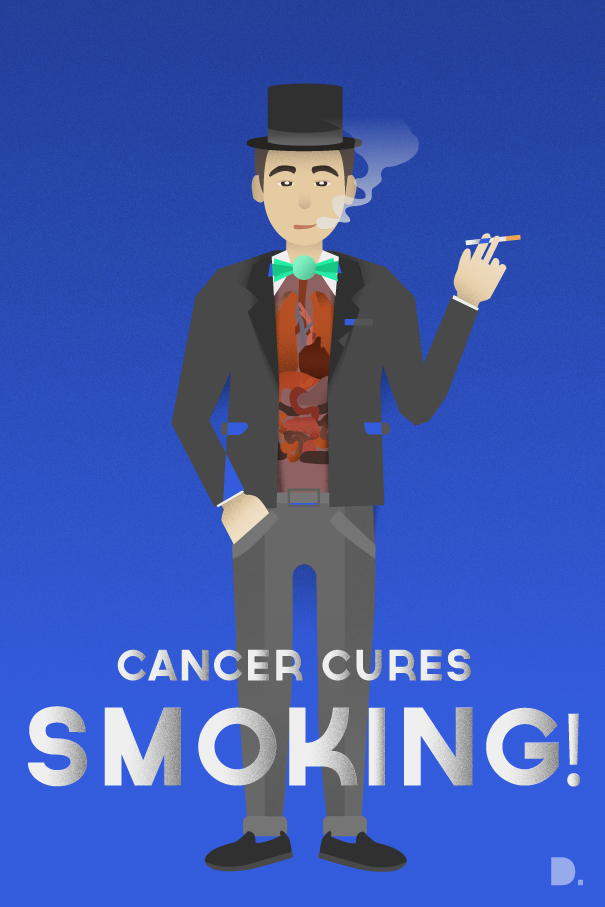
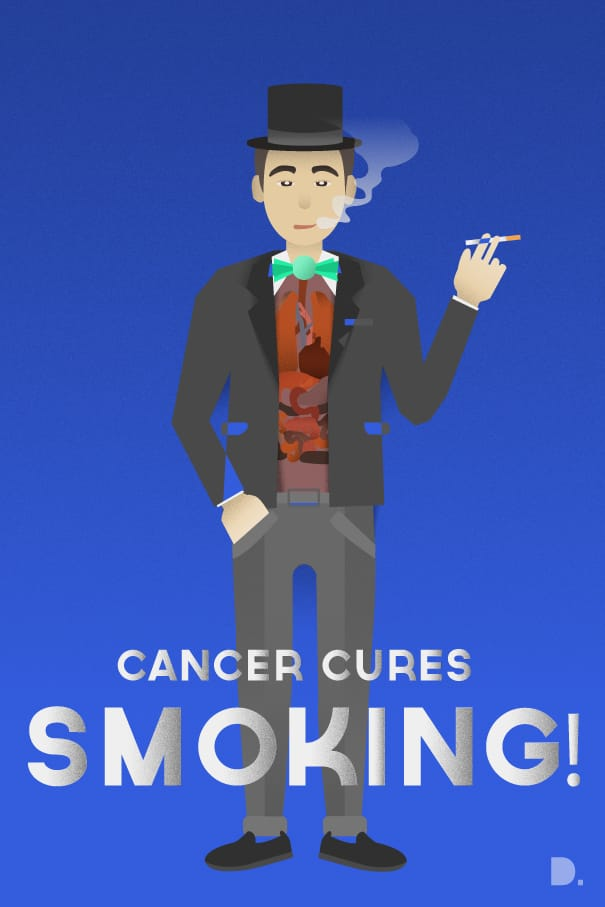
optimized images for the web

diff --git a/css/style.min.css b/css/style.min.css
@@ -1,1 +1,1 @@
-.menu,.menu-image,.nav-main{overflow:hidden}.feature-title,.menu-link a{text-decoration:none!important}.feature-box,.feature-box-cover,.feature-contents,.feature-desc,.feature-details,.menu-description,.photo-box{box-sizing:border-box}.background{position:absolute;height:600px;width:100%;background:#4a5861;background:-webkit-linear-gradient(left top,#71899A,#4a5861);background:-o-linear-gradient(bottom right,#8a9fae,#4a5861);background:-main-biomoz-linear-gradient(bottom right,#8a9fae,#4a5861);background:linear-gradient(bottom right,#8a9fae,#4a5861)}@media (min-height:600px){.background{height:700px}}.menu{height:478px;width:100%;position:fixed;pointer-events:none;z-index:10}.menu-image,.nav-button,.nav-faux-menu,.nav-main{position:absolute}@media (min-width:550px){.menu{width:333px}}.nav-container{width:inherit;height:478px}.nav-faux-menu{height:75px;background-color:#222c33;z-index:2}.nav-button{display:block;margin-left:7.5%;margin-top:17.5px;height:38px;width:38px;border-radius:38px;z-index:7;background-image:url(../images/menu.svg);background-size:contain;background-repeat:no-repeat;pointer-events:all}.list-image,.menu-image{background-repeat:no-repeat;background-size:cover}.nav-button:hover{background-color:rgba(0,0,0,.1)}.nav-main{margin-top:0;margin-left:0;height:0;width:0;pointer-events:all;background-color:#fff;border-radius:5px;border:none;z-index:2}.menu-image{height:200px;width:inherit;background-image:url(../images/slc-crime-heatmap-color.jpg);background-position:bottom;background-origin:border-box;z-index:5}.menu-content{position:fixed;margin-top:200px;height:178px;width:inherit}.menu-list{list-style:none;padding-top:15px}.menu-link{list-style:none;height:45px;padding-left:20px}.menu-link:hover{background-color:#f4f4f4}.menu-link a{font-weight:500;font-size:24px;line-height:45px;color:#000;display:inline-block}.list-image{height:24px;width:24px;margin-bottom:-3px;margin-right:5px;background-image:url(../images/github-circle.svg);background-position:center;display:inline-block}.nav-main-container,input[type=checkbox]{pointer-events:all;display:none}.menu-info{background-color:#eaeaea;height:50px;width:inherit;margin-top:428px;margin-left:0}.menu-info span{color:#222c33;font-weight:500;font-size:18px;line-height:50px;padding-left:20px}.nav-main-container{background-color:#fff;opacity:0;height:478px;width:inherit;z-index:5;position:absolute;overflow:hidden}.intro{height:100%}.intro-image{position:absolute;background-image:url(../images/personal-image.svg);background-position:bottom left;background-size:85%;background-repeat:no-repeat;height:100%;width:100%;max-width:400px;z-index:0;margin-left:0}.intro-bio-container{position:absolute;padding-right:2.5%;padding-left:7.5%;z-index:1;height:100%;max-width:1400px;color:#fff;top:0}@media (min-width:850px){.intro-image{width:100%;display:inline-block;float:left}.intro-bio-container{position:relative;width:60%;display:inline-block;float:right;padding-left:10%}}@media (min-width:550px){.intro-image{background-size:100%}.intro-bio-container{margin-left:0;position:relative;padding-left:2.5%}}.bio-intro{padding-top:150px;color:#fff}@media (min-height:600px){.bio-intro{padding-top:250px;top:0}}.bio-desc{font-size:2.5rem;font-weight:400;padding-right:2.5%;max-width:650px;color:#ececec}.main-bio-desc a{color:#fff}.main-bio-desc a:hover{color:#3da2f5}.intro-cover{position:absolute;z-index:1;width:100%;height:100%;background-color:rgba(0,0,0,.4)}@media (min-width:850px){.intro-cover{background-color:transparent}}input[type=checkbox]:checked~.nav-main{background-color:#fff;animation-name:circle-expansion;animation-timing-function:cubic-bezier(.62,.28,.23,.99) 1.2s;animation-duration:1.2s;animation-fill-mode:forwards;-webkit-animation-name:circle-expansion;-webkit-animation-timing-function:cubic-bezier(.62,.28,.23,.99) 1.2s;-webkit-animation-duration:1.2s;-webkit-animation-fill-mode:forwards;-moz-animation-name:circle-expansion;-moz-animation-timing-function:cubic-bezier(.62,.28,.23,.99) 1.2s;-moz-animation-duration:1.2s;-moz-animation-fill-mode:forwards;-o-animation-name:circle-expansion;-o-animation-timing-function:cubic-bezier(.62,.28,.23,.99) 1.2s;-o-animation-duration:1.2s;-o-animation-fill-mode:forwards;pointer-events:all}@keyframes circle-expansion{from{margin-left:0;margin-top:0;height:0;width:0;border-radius:0;z-index:6;background-image:none}to{margin-left:-150px;margin-top:-150px;height:800px;width:800px;border-radius:640px;z-index:5;background-image:none}}@-webkit-keyframes circle-expansion{from{margin-left:0;margin-top:0;height:0;width:0;border-radius:0;z-index:5;background-image:none}to{margin-left:-150px;margin-top:-150px;height:800px;width:800px;border-radius:640px;z-index:5;background-image:none}}@-moz-keyframes circle-expansion{from{margin-left:0;margin-top:0;height:0;width:0;border-radius:0;z-index:5;background-image:none}to{margin-left:-150px;margin-top:-150px;height:800px;width:800px;border-radius:640px;z-index:5;background-image:none}}@-o-keyframes circle-expansion{from{margin-left:0;margin-top:0;height:0;width:0;border-radius:0;z-index:5;background-image:none}to{margin-left:-150px;margin-top:-150px;height:800px;width:800px;border-radius:640px;z-index:5;background-image:none}}input[type=checkbox]:checked~.nav-main-container{overflow:visible;display:block;box-shadow:0 0 40px 0 rgba(0,0,0,.4);animation-name:show-content;animation-duration:1.3s;animation-fill-mode:forwards;-webkit-animation-name:show-content;-webkit-animation-duration:1.3s;-webkit-animation-fill-mode:forwards;-moz-animation-name:show-content;-moz-animation-duration:1.3s;-moz-animation-fill-mode:forwards;-o-animation-name:show-content;-o-animation-duration:1.3s;-o-animation-fill-mode:forwards}@keyframes show-content{0%{margin-top:0}50%{opacity:0}100%{opacity:1}}@-webkit-keyframes show-content{0%{margin-top:0}50%{opacity:0}100%{opacity:1}}@-moz-keyframes show-content{0%{margin-top:0}50%{opacity:0}100%{opacity:1}}@-o-keyframes show-content{0%{margin-top:0}50%{opacity:0}100%{opacity:1}}input[type=checkbox]:checked~.nav-button{background-image:url(../images/close-menu.svg)}.main-container{height:100%;background:0 0}#feature-project-1,#feature-project-2,#photo-1,#photo-2,#photo-4{background-position:center}.section-title{color:#4a5861;font-weight:500;padding-bottom:0;margin:0}.section-divider{margin-top:15px;width:100px;float:left;margin-bottom:50px}.feature-box{height:300px;background-color:#ececec;position:relative;z-index:0}.feature-box:hover{box-shadow:0 0 40px 0 rgba(0,0,0,.4);z-index:5}.feature-title{line-height:2rem;color:#fff;margin-bottom:0;max-width:85%;display:none}#feature-project-1{background-image:url(../images/slc-crime-heatmap-color2.jpg);background-size:cover;background-repeat:no-repeat}.feature-box-cover{width:100%;height:100%;opacity:0;position:absolute;top:0;z-index:0}.feature-contents{display:inline-block;width:100%;height:300px;z-index:5;text-decoration:none;position:relative;padding:60px 50px 20px}@media (min-width:650px){.feature-box,.feature-contents{height:350px}}#feature-project-cover-1{background-color:#00a4b5}.feature-desc-container{height:75px;width:100%;margin-bottom:-75px;background-color:#ececec}.feature-details{position:absolute;width:inherit;padding-top:0;bottom:0;height:50px;margin-right:-50px;margin-left:-50px;padding-left:20px;padding-right:20px;margin-bottom:20px}.feature-external-link,.feature-inner-link{background-size:3rem;height:50px;width:50px}@media (min-width:550px){.feature-details{padding-left:50px;padding-right:50px}}.feature-link-desc{line-height:50px;font-size:1.75rem;color:#f5f5f5;opacity:.6;float:left;font-weight:500;display:inline-block;margin-bottom:0}.feature-link-desc:hover{opacity:1}.feature-inner-link{float:right;margin-bottom:0;opacity:.6}.feature-external-link{float:right;background-image:url(../images/leave_page.svg)}.nav-main-circle-container{width:inherit;height:478px;position:fixed;overflow:visible}.nav-main-faux-container{width:inherit;height:75px;position:fixed}input[type=checkbox]:checked~.nav-main-faux-container{height:478px;animation-name:fade-content;animation-duration:1.3s;animation-fill-mode:forwards;-webkit-animation-name:fade-content;-webkit-animation-duration:1.3s;-webkit-animation-fill-mode:forwards;-moz-animation-name:fade-content;-moz-animation-duration:1.3s;-moz-animation-fill-mode:forwards;-o-animation-name:fade-content;-o-animation-duration:1.3s;-o-animation-fill-mode:forwards}@keyframes fade-content{0%,50%{box-shadow:0 0 40px 0 transparent}100%{box-shadow:0 0 40px 0 rgba(0,0,0,.4)}}@-webkit-keyframes fade-content{0%,50%{box-shadow:0 0 40px 0 transparent}100%{box-shadow:0 0 40px 0 rgba(0,0,0,.4)}}@-moz-keyframes fade-content{0%,50%{box-shadow:0 0 40px 0 transparent}100%{box-shadow:0 0 40px 0 rgba(0,0,0,.4)}}@-o-keyframes fade-content{0%,50%{box-shadow:0 0 40px 0 transparent}100%{box-shadow:0 0 40px 0 rgba(0,0,0,.4)}}#feature-project-2{background-image:url(../images/tungsten-color2.jpg);background-size:cover;background-repeat:no-repeat}#feature-project-cover-2{background-color:rgba(102,0,255,1)}.dark-text{color:#222c33}.dark-icon{background-image:url(../images/leave_page_onsite_dark.svg)!important;background-size:30px 30px}#photo-1,#photo-2,#photo-3,#photo-4{background-repeat:no-repeat;background-size:cover}.feature-desc{opacity:.8;padding:5px 50px 10px}.experiments-container,.photos-container,.projects-container{padding-bottom:50px}.footer-content,.section-declaration{padding-top:50px}.photo-box{display:inline-block;margin:0;min-height:275px;background-color:#ececec;position:relative;z-index:0}.photo-box:hover{box-shadow:0 0 40px 0 rgba(0,0,0,.4);z-index:5}#photo-4{height:500px;background-image:url(../images/tobaccoPoster.jpg);margin-top:0}@media (min-width:550px){#photo-4{margin-top:-100px}}#photo-2{height:400px;background-image:url(../images/obama.jpg)}#photo-1{height:300px;background-image:url(../images/container.jpg)}#photo-3{top:0;height:400px;background-image:url(../images/DSC_0133_Final.jpg);background-position:top center}.outside{background-image:url(../images/leave_page.svg)}.inside{background-image:url(../images/leave_page_onsite.svg);background-size:35%}#feature-experiment-1{background-image:url(../images/css-animations.jpg);background-size:cover;background-repeat:no-repeat;background-position:center}.feature-outer-link{background-image:url(../images/leave_page.svg);background-size:60%;background-position:center;float:right}.footer-container{margin-top:50px;width:100%;bottom:0;background-color:#ececec;z-index:0}.main-shadow{background-color:#fff;width:100%;height:50px;box-shadow:0 10px 10px 0 rgba(0,0,0,.1);z-index:5;position:absolute}.footer-content{margin-bottom:0;padding-bottom:20px}.footer-desc{font-weight:400;margin-top:0}.footer-title{padding-top:20px;margin-bottom:15px}.footer-logo{height:0;width:0;margin:0 auto;display:none}@media (min-width:550px){.footer-logo{float:right;display:block;height:75px;width:100px;margin-top:25px;margin-left:-15px}.footer-logo-container{display:block;height:120px;margin-top:0}}.footer-text{display:inline-block;float:left}.footer-logo-container{display:none}.menu-description{width:inherit;height:100px;background-color:#ececec;padding-left:20px;padding-top:15px;padding-right:20px}.editor-title{margin:0}.editor-desc{margin-top:5px;color:#95989a;font-weight:400;font-size:1.5rem;line-height:2rem}
+.menu,.menu-image,.nav-main{overflow:hidden}.feature-title,.menu-link a{text-decoration:none!important}.feature-box,.feature-box-cover,.feature-contents,.feature-desc,.feature-details,.menu-description,.photo-box{box-sizing:border-box}.background{position:absolute;height:600px;width:100%;background:#4a5861;background:-webkit-linear-gradient(left top,#71899A,#4a5861);background:-o-linear-gradient(bottom right,#8a9fae,#4a5861);background:-main-biomoz-linear-gradient(bottom right,#8a9fae,#4a5861);background:linear-gradient(bottom right,#8a9fae,#4a5861)}@media (min-height:600px){.background{height:700px}}.menu{height:478px;width:100%;position:fixed;pointer-events:none;z-index:10}.menu-image,.nav-button,.nav-faux-menu,.nav-main{position:absolute}@media (min-width:550px){.menu{width:333px}}.nav-container{width:inherit;height:478px}.nav-faux-menu{height:75px;background-color:#222c33;z-index:2}.nav-button{display:block;margin-left:7.5%;margin-top:17.5px;height:38px;width:38px;border-radius:38px;z-index:7;background-image:url(../images/menu.svg);background-size:contain;background-repeat:no-repeat;pointer-events:all}.list-image,.menu-image{background-repeat:no-repeat;background-size:cover}.nav-button:hover{background-color:rgba(0,0,0,.1)}.nav-main{margin-top:0;margin-left:0;height:0;width:0;pointer-events:all;background-color:#fff;border-radius:5px;border:none;z-index:2}.menu-image{height:200px;width:inherit;background-image:url(../images/slc-crime-heatmap-color.jpg);background-position:bottom;background-origin:border-box;z-index:5}.menu-content{position:fixed;margin-top:200px;height:178px;width:inherit}.menu-list{list-style:none;padding-top:15px}.menu-link{list-style:none;height:45px;padding-left:20px}.menu-link:hover{background-color:#f4f4f4}.menu-link a{font-weight:500;font-size:24px;line-height:45px;color:#000;display:inline-block}.list-image{height:24px;width:24px;margin-bottom:-3px;margin-right:5px;background-image:url(../images/github-circle.svg);background-position:center;display:inline-block}.nav-main-container,input[type=checkbox]{pointer-events:all;display:none}.menu-info{background-color:#eaeaea;height:50px;width:inherit;margin-top:428px;margin-left:0}.menu-info span{color:#222c33;font-weight:500;font-size:18px;line-height:50px;padding-left:20px}.nav-main-container{background-color:#fff;opacity:0;height:478px;width:inherit;z-index:5;position:absolute;overflow:hidden}.intro{height:100%}.intro-image{position:absolute;background-image:url(../images/personal-image.svg);background-position:bottom left;background-size:85%;background-repeat:no-repeat;height:100%;width:100%;max-width:400px;z-index:0;margin-left:0}.intro-bio-container{position:absolute;padding-right:2.5%;padding-left:7.5%;z-index:1;height:100%;max-width:1400px;color:#fff;top:0}@media (min-width:850px){.intro-image{width:100%;display:inline-block;float:left}.intro-bio-container{position:relative;width:60%;display:inline-block;float:right;padding-left:10%}}@media (min-width:550px){.intro-image{background-size:100%}.intro-bio-container{margin-left:0;position:relative;padding-left:2.5%}}.bio-intro{padding-top:150px;color:#fff}@media (min-height:600px){.bio-intro{padding-top:250px;top:0}}.bio-desc{font-size:2.5rem;font-weight:400;padding-right:2.5%;max-width:650px;color:#ececec}.main-bio-desc a{color:#fff}.main-bio-desc a:hover{color:#3da2f5}.intro-cover{position:absolute;z-index:1;width:100%;height:100%;background-color:rgba(0,0,0,.4)}@media (min-width:850px){.intro-cover{background-color:transparent}}input[type=checkbox]:checked~.nav-main{background-color:#fff;animation-name:circle-expansion;animation-timing-function:cubic-bezier(.62,.28,.23,.99) 1.2s;animation-duration:1.2s;animation-fill-mode:forwards;-webkit-animation-name:circle-expansion;-webkit-animation-timing-function:cubic-bezier(.62,.28,.23,.99) 1.2s;-webkit-animation-duration:1.2s;-webkit-animation-fill-mode:forwards;-moz-animation-name:circle-expansion;-moz-animation-timing-function:cubic-bezier(.62,.28,.23,.99) 1.2s;-moz-animation-duration:1.2s;-moz-animation-fill-mode:forwards;-o-animation-name:circle-expansion;-o-animation-timing-function:cubic-bezier(.62,.28,.23,.99) 1.2s;-o-animation-duration:1.2s;-o-animation-fill-mode:forwards;pointer-events:all}@keyframes circle-expansion{from{margin-left:0;margin-top:0;height:0;width:0;border-radius:0;z-index:6;background-image:none}to{margin-left:-150px;margin-top:-150px;height:800px;width:800px;border-radius:640px;z-index:5;background-image:none}}@-webkit-keyframes circle-expansion{from{margin-left:0;margin-top:0;height:0;width:0;border-radius:0;z-index:5;background-image:none}to{margin-left:-150px;margin-top:-150px;height:800px;width:800px;border-radius:640px;z-index:5;background-image:none}}@-moz-keyframes circle-expansion{from{margin-left:0;margin-top:0;height:0;width:0;border-radius:0;z-index:5;background-image:none}to{margin-left:-150px;margin-top:-150px;height:800px;width:800px;border-radius:640px;z-index:5;background-image:none}}@-o-keyframes circle-expansion{from{margin-left:0;margin-top:0;height:0;width:0;border-radius:0;z-index:5;background-image:none}to{margin-left:-150px;margin-top:-150px;height:800px;width:800px;border-radius:640px;z-index:5;background-image:none}}input[type=checkbox]:checked~.nav-main-container{overflow:visible;display:block;box-shadow:0 0 40px 0 rgba(0,0,0,.4);animation-name:show-content;animation-duration:1.3s;animation-fill-mode:forwards;-webkit-animation-name:show-content;-webkit-animation-duration:1.3s;-webkit-animation-fill-mode:forwards;-moz-animation-name:show-content;-moz-animation-duration:1.3s;-moz-animation-fill-mode:forwards;-o-animation-name:show-content;-o-animation-duration:1.3s;-o-animation-fill-mode:forwards}@keyframes show-content{0%{margin-top:0}50%{opacity:0}100%{opacity:1}}@-webkit-keyframes show-content{0%{margin-top:0}50%{opacity:0}100%{opacity:1}}@-moz-keyframes show-content{0%{margin-top:0}50%{opacity:0}100%{opacity:1}}@-o-keyframes show-content{0%{margin-top:0}50%{opacity:0}100%{opacity:1}}input[type=checkbox]:checked~.nav-button{background-image:url(../images/close-menu.svg)}.main-container{height:100%;background:0 0}#feature-project-1,#feature-project-2,#photo-1,#photo-2,#photo-4{background-position:center}.section-title{color:#4a5861;font-weight:500;padding-bottom:0;margin:0}.section-divider{margin-top:15px;width:100px;float:left;margin-bottom:50px}.feature-box{height:300px;background-color:#ececec;position:relative;z-index:0}.feature-box:hover{box-shadow:0 0 40px 0 rgba(0,0,0,.4);z-index:5}.feature-title{line-height:2rem;color:#fff;margin-bottom:0;max-width:85%;display:none}#feature-project-1{background-image:url(../images/slc-crime-heatmap-color2.jpg);background-size:cover;background-repeat:no-repeat}.feature-box-cover{width:100%;height:100%;opacity:0;position:absolute;top:0;z-index:0}.feature-contents{display:inline-block;width:100%;height:300px;z-index:5;text-decoration:none;position:relative;padding:60px 50px 20px}@media (min-width:650px){.feature-box,.feature-contents{height:350px}}#feature-project-cover-1{background-color:#00a4b5}.feature-desc-container{height:75px;width:100%;margin-bottom:-75px;background-color:#ececec}.feature-details{position:absolute;width:inherit;padding-top:0;bottom:0;height:50px;margin-right:-50px;margin-left:-50px;padding-left:20px;padding-right:20px;margin-bottom:20px}.feature-external-link,.feature-inner-link{background-size:3rem;height:50px;width:50px}@media (min-width:750px){.feature-details{padding-left:50px;padding-right:50px}}.feature-link-desc{line-height:50px;font-size:1.75rem;color:#f5f5f5;opacity:.6;float:left;font-weight:500;display:inline-block;margin-bottom:0}.feature-link-desc:hover{opacity:1}.feature-inner-link{float:right;margin-bottom:0;opacity:.6}.feature-external-link{float:right;background-image:url(../images/leave_page.svg)}.nav-main-circle-container{width:inherit;height:478px;position:fixed;overflow:visible}.nav-main-faux-container{width:inherit;height:75px;position:fixed}input[type=checkbox]:checked~.nav-main-faux-container{height:478px;animation-name:fade-content;animation-duration:1.3s;animation-fill-mode:forwards;-webkit-animation-name:fade-content;-webkit-animation-duration:1.3s;-webkit-animation-fill-mode:forwards;-moz-animation-name:fade-content;-moz-animation-duration:1.3s;-moz-animation-fill-mode:forwards;-o-animation-name:fade-content;-o-animation-duration:1.3s;-o-animation-fill-mode:forwards}@keyframes fade-content{0%,50%{box-shadow:0 0 40px 0 transparent}100%{box-shadow:0 0 40px 0 rgba(0,0,0,.4)}}@-webkit-keyframes fade-content{0%,50%{box-shadow:0 0 40px 0 transparent}100%{box-shadow:0 0 40px 0 rgba(0,0,0,.4)}}@-moz-keyframes fade-content{0%,50%{box-shadow:0 0 40px 0 transparent}100%{box-shadow:0 0 40px 0 rgba(0,0,0,.4)}}@-o-keyframes fade-content{0%,50%{box-shadow:0 0 40px 0 transparent}100%{box-shadow:0 0 40px 0 rgba(0,0,0,.4)}}#feature-project-2{background-image:url(../images/tungsten-color2.jpg);background-size:cover;background-repeat:no-repeat}#feature-project-cover-2{background-color:rgba(102,0,255,1)}.dark-text{color:#222c33}.dark-icon{background-image:url(../images/leave_page_onsite_dark.svg)!important;background-size:30px 30px}#photo-1,#photo-2,#photo-3,#photo-4{background-repeat:no-repeat;background-size:cover}.feature-desc{opacity:.8;padding:5px 50px 10px}.experiments-container,.photos-container,.projects-container{padding-bottom:50px}.footer-content,.section-declaration{padding-top:50px}.photo-box{display:inline-block;margin:0;min-height:275px;background-color:#ececec;position:relative;z-index:0}.photo-box:hover{box-shadow:0 0 40px 0 rgba(0,0,0,.4);z-index:5}#photo-4{height:500px;background-image:url(../images/tobaccoPoster.jpg);margin-top:0}@media (min-width:550px){#photo-4{margin-top:-100px}}#photo-2{height:400px;background-image:url(../images/obama.jpg)}#photo-1{height:300px;background-image:url(../images/container.jpg)}#photo-3{top:0;height:400px;background-image:url(../images/DSC_0133_Final.jpg);background-position:top center}.outside{background-image:url(../images/leave_page.svg)}.inside{background-image:url(../images/leave_page_onsite.svg);background-size:35%}#feature-experiment-1{background-image:url(../images/css-animations.jpg);background-size:cover;background-repeat:no-repeat;background-position:center}.feature-outer-link{background-image:url(../images/leave_page.svg);background-size:60%;background-position:center;float:right}.footer-container{margin-top:50px;width:100%;bottom:0;background-color:#ececec;z-index:0}.main-shadow{background-color:#fff;width:100%;height:50px;box-shadow:0 10px 10px 0 rgba(0,0,0,.1);z-index:5;position:absolute}.footer-content{margin-bottom:0;padding-bottom:20px}.footer-desc{font-weight:400;margin-top:0}.footer-title{padding-top:20px;margin-bottom:15px}.footer-logo{height:0;width:0;margin:0 auto;display:none}@media (min-width:550px){.footer-logo{float:right;display:block;height:75px;width:100px;margin-top:25px;margin-left:-15px}.footer-logo-container{display:block;height:120px;margin-top:0}}.footer-text{display:inline-block;float:left}.footer-logo-container{display:none}.menu-description{width:inherit;height:100px;background-color:#ececec;padding-left:20px;padding-top:15px;padding-right:20px}.editor-title{margin:0}.editor-desc{margin-top:5px;color:#95989a;font-weight:400;font-size:1.5rem;line-height:2rem}

diff --git a/css/style.css b/css/style.css
@@ -602,7 +602,7 @@ input[type=checkbox]:checked~.nav-button {
   margin-bottom: 20px;
 }
 
-@media (min-width: 550px) {
+@media (min-width: 750px) {
   .feature-details {
     padding-left: 50px;
     padding-right: 50px;
@@ -884,6 +884,7 @@ input[type=checkbox]:checked~.nav-main-faux-container {
   margin: 0 auto;
   display: none;
 }
+
 @media (min-width: 550px) {
   .footer-logo {
     float: right;
